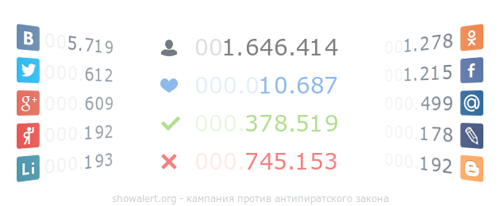
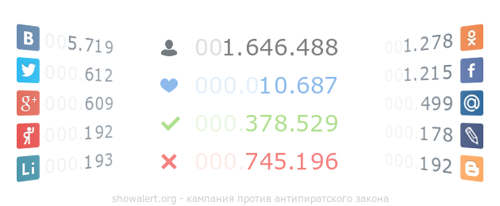
some updates

Changed region(s): [[0.6, 0.1748, 0.69, 0.2621], [0.6, 0.7282, 0.69, 0.8155], [0.6, 0.5534, 0.66, 0.6408]]

diff --git a/votes.js b/votes.js
@@ -1,1 +1,1 @@
-window.lk.votes(27340)
+window.lk.votes(27366)
